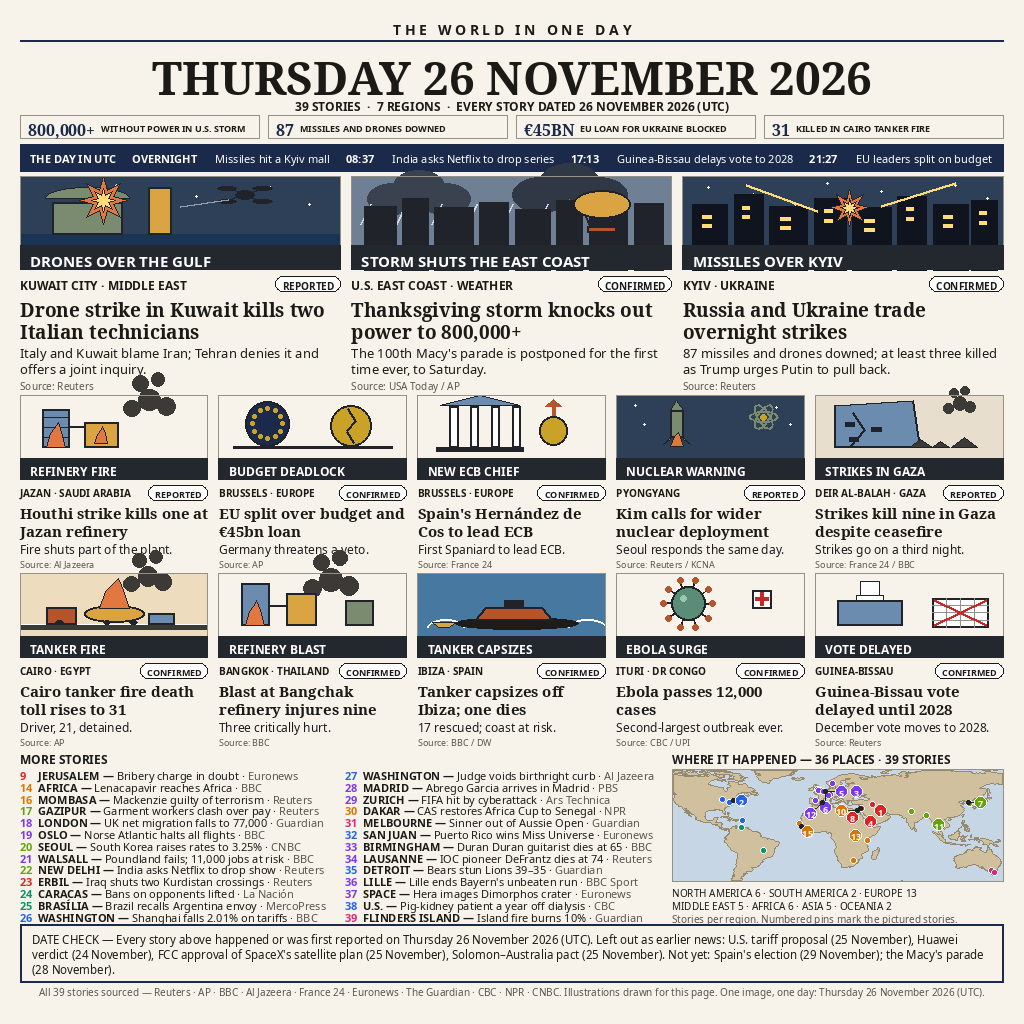
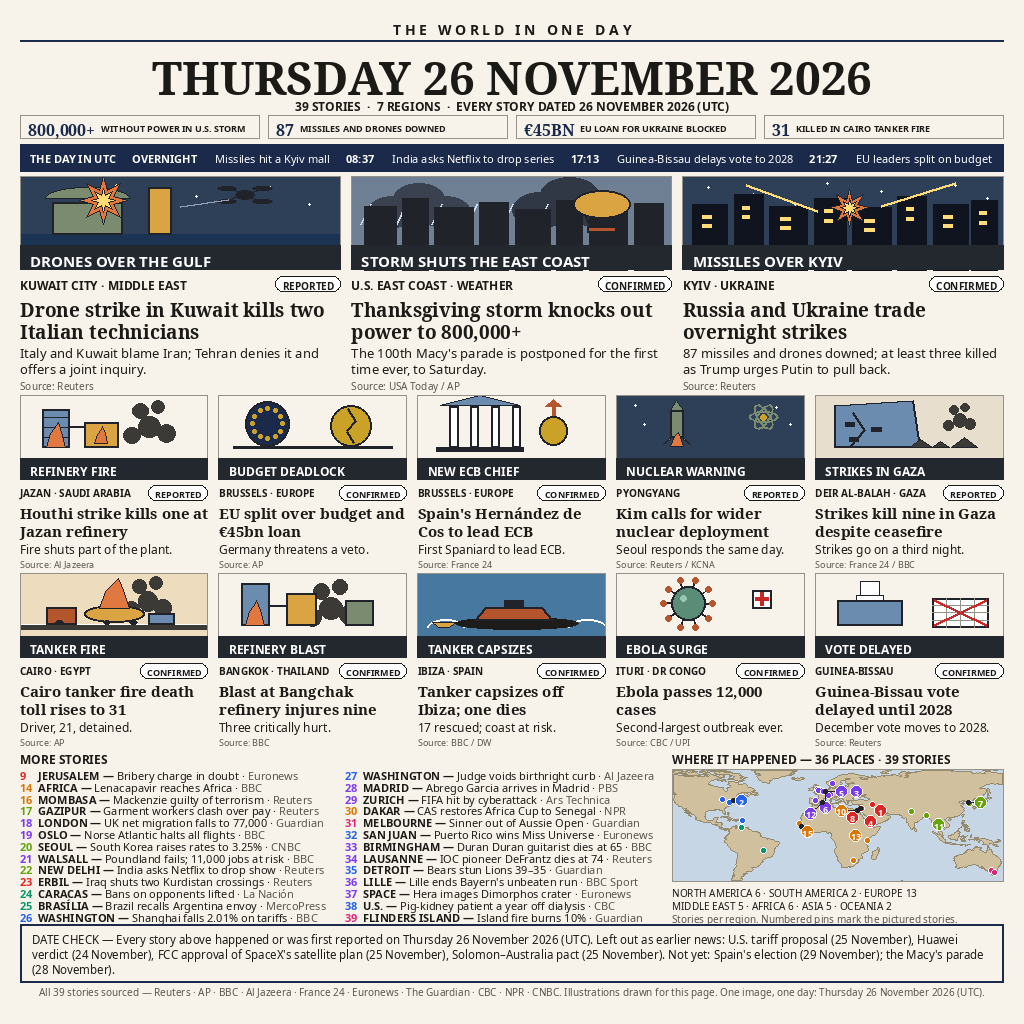
V1.2: asap/awan tidak lagi meluber keluar kotak gambar (perbaiki _smoke/_cloud)

diff --git a/compose.py b/compose.py
@@ -229,13 +229,17 @@ def _burst(d, cx, cy, r, color, n=8):
     d.polygon(pts, fill=color, outline=ILL_INK)
 
 def _cloud(d, x, y, s, color):
-    d.ellipse([x, y, x + s, y + s * 0.6], fill=color)
-    d.ellipse([x + s * 0.5, y - s * 0.25, x + s * 1.5, y + s * 0.35], fill=color)
-    d.ellipse([x + s * 1.0, y, x + s * 2.0, y + s * 0.6], fill=color)
+    # Punuk tengah digeser ke bawah agar awan tidak pernah melewati y
+    # (tepi atas kotak gambar).
+    d.ellipse([x, y + s * 0.25, x + s, y + s * 0.85], fill=color)
+    d.ellipse([x + s * 0.5, y, x + s * 1.5, y + s * 0.6], fill=color)
+    d.ellipse([x + s * 1.0, y + s * 0.25, x + s * 2.0, y + s * 0.85], fill=color)
 
 def _smoke(d, x, y, s, color=ILL_SMOKE):
-    for dx, dy, r in [(0, 0, 0.55), (0.5, -0.35, 0.7), (1.1, -0.1, 0.6),
-                      (0.3, -0.8, 0.5), (0.9, -0.9, 0.45)]:
+    # Gugus asap digeser ke bawah 0.9*s agar tidak ada gumpalan yang melewati
+    # y (tepi atas kotak gambar) dan menyentuh teks di atasnya.
+    for dx, dy, r in [(0, 0.9, 0.55), (0.5, 0.55, 0.7), (1.1, 0.8, 0.6),
+                      (0.3, 0.1, 0.5), (0.9, 0.0, 0.45)]:
         d.ellipse([x + dx * s, y + dy * s, x + (dx + r) * s, y + (dy + r) * s],
                   fill=color)
 
@@ -683,9 +687,17 @@ def status_pill(d, x, y, width, status, fsize=10):
     d.text((x + width - pw + (pw - tw) / 2, y + 3), status, font=sf, fill=INK)
     return pw
 
-def draw_story_image(d, x, y, w, h, num, hook, hook_size):
-    """Kotak gambar: ilustrasi + pita hook di tepi bawah."""
-    ILLUSTRATIONS[num](d, x, y, w, h)
+def draw_story_image(img, d, x, y, w, h, num, hook, hook_size):
+    """Kotak gambar: ilustrasi + pita hook di tepi bawah.
+
+    Ilustrasi digambar di lapis sendiri lalu ditempel, supaya tidak ada
+    yang meluber keluar kotak: asap _smoke naik ~0,9s di atas jangkarnya
+    dan titiknya pernah menempel pada teks kartu di atasnya (QA kritikus 2).
+    """
+    layer = Image.new("RGB", (int(w), int(h)), PAPER)
+    dl = ImageDraw.Draw(layer)
+    ILLUSTRATIONS[num](dl, 0, 0, int(w), int(h))
+    img.paste(layer, (int(x), int(y)))
     d.rectangle([x, y, x + w - 1, y + h - 1], outline=LINE, width=1)
     hh = hook_size + 10
     d.rectangle([x, y + h - hh, x + w - 1, y + h - 1], fill=CHARCOAL)
@@ -697,10 +709,10 @@ def draw_story_image(d, x, y, w, h, num, hook, hook_size):
         raise FitFail(f"hook terlalu panjang: {hook!r}")
     d.text((x + 10, y + h - hh + 5), ht, font=hf, fill=WHITE)
 
-def draw_hero(d, x, y, w, story, g):
+def draw_hero(img, d, x, y, w, story, g):
     num, kicker, status, title, dek, src, hook, reg = story
     img_h = g["hero_img"]
-    draw_story_image(d, x, y, w, img_h, num, hook, 15)
+    draw_story_image(img, d, x, y, w, img_h, num, hook, 15)
     yy = y + img_h + 6
     pw = status_pill(d, x, yy, w, status, 10)
     kf = font(SANS_B, 12)
@@ -719,10 +731,10 @@ def draw_hero(d, x, y, w, story, g):
     d.text((x, yy), "Source: " + src, font=sf, fill=MUTED)
     return yy + 12
 
-def draw_card(d, x, y, w, story, g):
+def draw_card(img, d, x, y, w, story, g):
     num, kicker, status, title, dek, src, hook, reg = story
     img_h = g["card_img"]
-    draw_story_image(d, x, y, w, img_h, num, hook, 12)
+    draw_story_image(img, d, x, y, w, img_h, num, hook, 12)
     yy = y + img_h + 5
     pw = status_pill(d, x, yy, w, status, 9)
     kf = font(SANS_B, 10)
@@ -856,7 +868,7 @@ def render(layout, land, out_path):
     colw = (CW - 2 * 10) / 3
     y_hero_end = y
     for i, st in enumerate(HEROES):
-        ye = draw_hero(d, MARGIN + i * (colw + 10), y, colw, st, g)
+        ye = draw_hero(img, d, MARGIN + i * (colw + 10), y, colw, st, g)
         y_hero_end = max(y_hero_end, ye)
     y = y_hero_end + g["gap_hero_cards"]
     # kartu
@@ -866,7 +878,7 @@ def render(layout, land, out_path):
     for ri, row in enumerate(rows):
         y_row_end = y
         for i, st in enumerate(row):
-            ye = draw_card(d, MARGIN + i * (colw5 + 10), y, colw5, st, g)
+            ye = draw_card(img, d, MARGIN + i * (colw5 + 10), y, colw5, st, g)
             y_row_end = max(y_row_end, ye)
         y = y_row_end
         if ri < len(rows) - 1:
